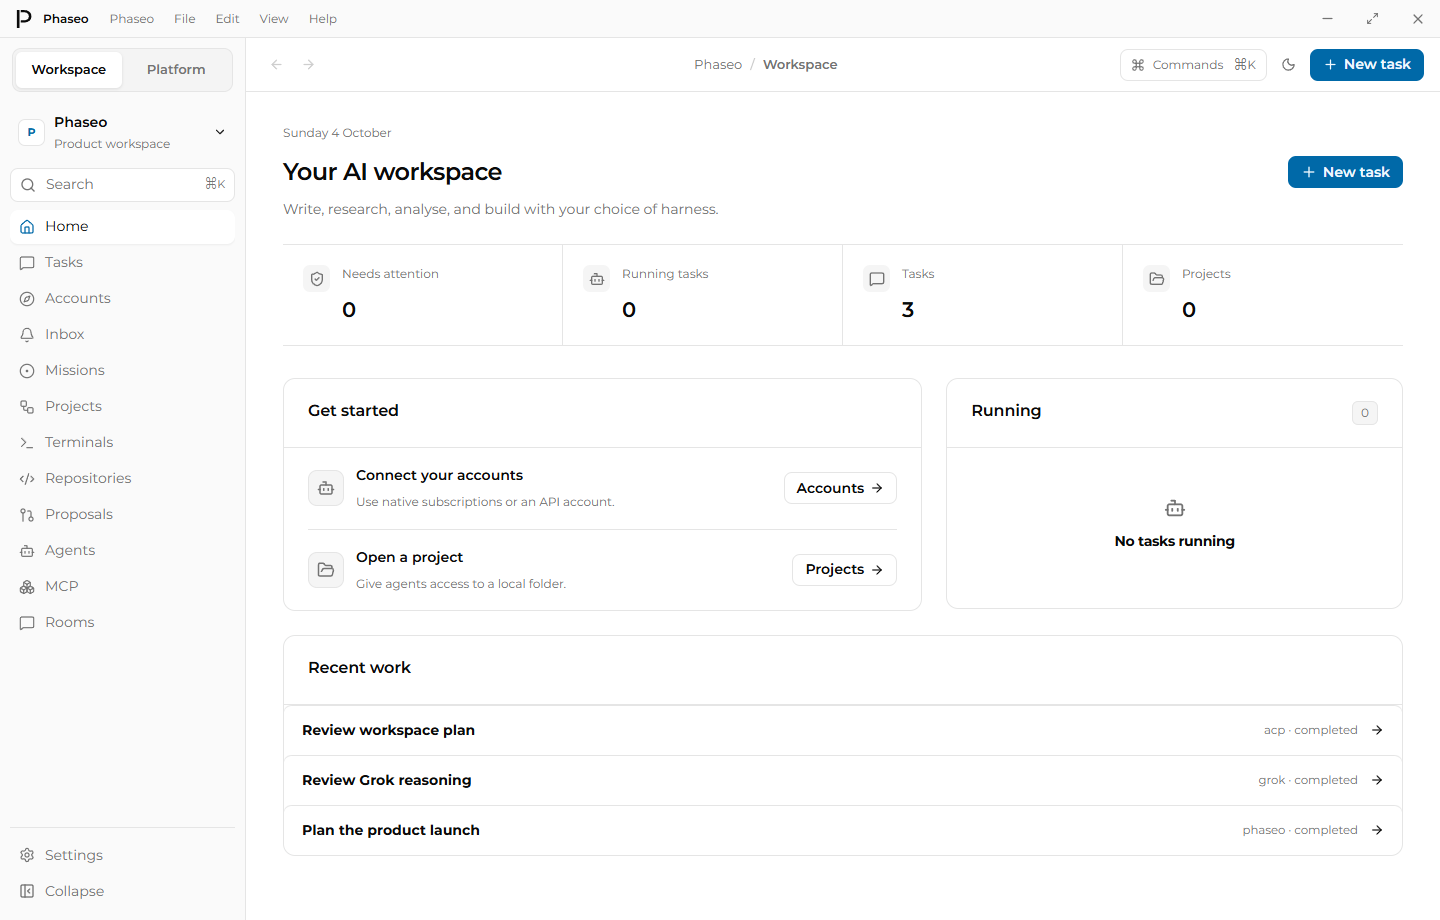
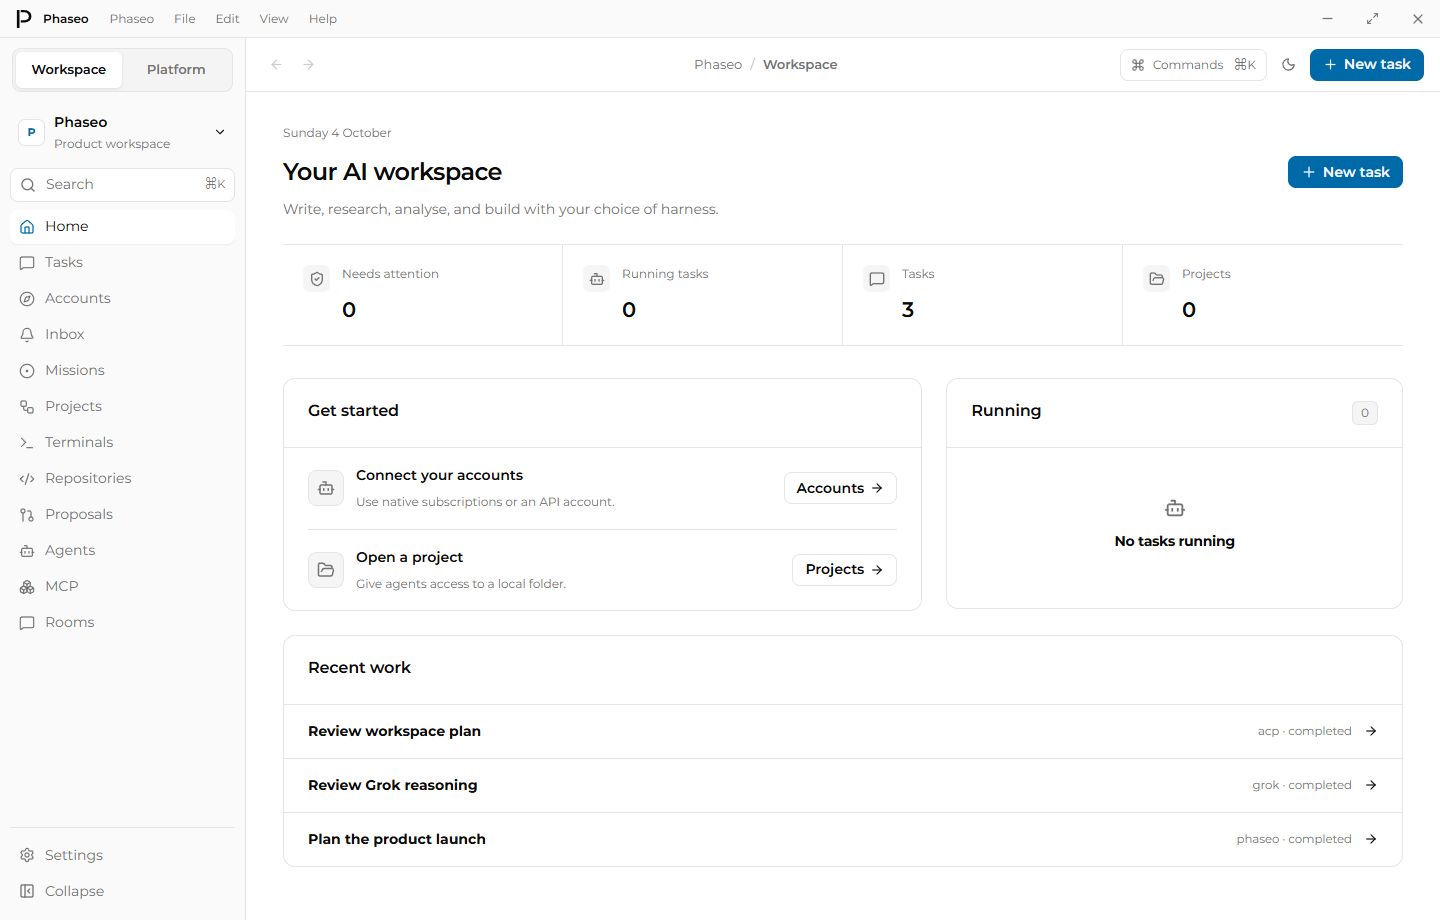
feat(desktop): improve conversation navigation and panel alignment

Changed region(s): [[0.1875, 0.7913, 0.3438, 0.9435], [0.8438, 0.7913, 0.9688, 0.9435]]

diff --git a/apps/desktop/src/renderer/components/ConversationHistory.tsx b/apps/desktop/src/renderer/components/ConversationHistory.tsx
@@ -1,5 +1,5 @@
-import { useLayoutEffect, useRef, useState, type ReactNode } from "react";
-import { Paperclip } from "lucide-react";
+import { useEffect, useLayoutEffect, useRef, useState, type ReactNode } from "react";
+import { ArrowDown, Paperclip } from "lucide-react";
 import type { Task } from "../../shared/workspace";
 import { MessageContent } from "./MessageContent";
 
@@ -7,20 +7,32 @@ const pageSize = 50;
 
 export function ConversationHistory({ task, onAttachment, children }: { task: Task; onAttachment: (id: string) => void; children: ReactNode }) {
 	const host = useRef<HTMLDivElement>(null);
+	const content = useRef<HTMLDivElement>(null);
+	const followingLatest = useRef(true);
+	const [showLatest, setShowLatest] = useState(false);
 	const anchor = useRef<{ height: number; top: number } | undefined>(undefined);
 	const [firstMessage, setFirstMessage] = useState(() => task.messages[Math.max(0, task.messages.length - pageSize)]?.id);
 	const [firstActivity, setFirstActivity] = useState(() => task.activities?.[Math.max(0, task.activities.length - pageSize)]?.id);
 	const messageStart = Math.max(0, task.messages.findIndex(value => value.id === firstMessage));
 	const activityStart = Math.max(0, task.activities?.findIndex(value => value.id === firstActivity) ?? 0);
 	useLayoutEffect(() => {
-		if (host.current && anchor.current) { host.current.scrollTop = anchor.current.top + host.current.scrollHeight - anchor.current.height; anchor.current = undefined; }
-	}, [firstMessage, firstActivity]);
-	function rememberPosition() { if (host.current) anchor.current = { height: host.current.scrollHeight, top: host.current.scrollTop }; }
-	return <div className="task-messages" ref={host} aria-live="polite">
+		if (!host.current) return;
+		if (anchor.current) { host.current.scrollTop = anchor.current.top + host.current.scrollHeight - anchor.current.height; anchor.current = undefined; updatePosition(); }
+		else if (followingLatest.current) host.current.scrollTop = host.current.scrollHeight;
+	}, [task, firstMessage, firstActivity]);
+	useEffect(() => {
+		if (!content.current) return;
+		const observer = new ResizeObserver(() => { if (host.current && followingLatest.current && !anchor.current) host.current.scrollTop = host.current.scrollHeight; });
+		observer.observe(content.current); return () => observer.disconnect();
+	}, []);
+	function updatePosition() { if (!host.current) return; const latest = host.current.scrollHeight - host.current.clientHeight - host.current.scrollTop <= 48; followingLatest.current = latest; setShowLatest(!latest); }
+	function rememberPosition() { if (host.current) { followingLatest.current = false; anchor.current = { height: host.current.scrollHeight, top: host.current.scrollTop }; } }
+	function jumpToLatest() { followingLatest.current = true; if (host.current) host.current.scrollTop = host.current.scrollHeight; setShowLatest(false); }
+	return <div className="conversation-scroll-region"><div className="task-messages" ref={host} onScroll={updatePosition} aria-live="polite"><div ref={content}>
 		{messageStart > 0 && <div className="conversation-history-controls"><button type="button" onClick={() => { rememberPosition(); setFirstMessage(task.messages[Math.max(0, messageStart - pageSize)].id); }}>Load older messages</button><small>{messageStart} earlier messages</small></div>}
 		{task.messages.length ? task.messages.slice(messageStart).map(message => <article className={`task-message task-message-${message.role}`} key={message.id}><small>{message.role === "user" ? "You" : message.role === "assistant" ? task.harness : message.role}</small>{message.role === "assistant" ? <MessageContent text={message.text} /> : <div>{message.text}</div>}{message.attachments?.map(attachment => <button type="button" className="attachment-chip" key={attachment.id} onClick={() => onAttachment(attachment.id)}><Paperclip size={12} />{attachment.name}</button>)}</article>) : <p className="task-muted">Send a message to start.</p>}
 		{activityStart > 0 && <div className="conversation-history-controls"><button type="button" onClick={() => { rememberPosition(); setFirstActivity(task.activities![Math.max(0, activityStart - pageSize)].id); }}>Load older activities</button><small>{activityStart} earlier activities</small></div>}
 		{task.activities?.slice(activityStart).map(activity => <details className="task-activity" key={activity.id}><summary>{activity.title}{activity.status ? ` · ${activity.status}` : ""}</summary><pre>{activity.text}</pre></details>)}
 		{children}
-	</div>;
+	</div></div>{showLatest && <button type="button" className="conversation-latest" onClick={jumpToLatest}><ArrowDown size={14} />Jump to latest</button>}</div>;
 }

diff --git a/apps/desktop/src/renderer/styles.css b/apps/desktop/src/renderer/styles.css
@@ -113,10 +113,11 @@
 .task-toolbar small { display: block; margin-top: 5px; color: var(--text-muted); }
 .task-toolbar .task-title { width: 100%; border: 0; padding: 0; background: transparent; color: var(--text); font: inherit; font-weight: 600; }
 .task-title:focus { outline: 1px solid var(--border); border-radius: 4px; }
-.home-task-row { display: flex; align-items: center; width: 100%; gap: 12px; padding: 14px 18px; border: 0; border-top: 1px solid var(--border); background: transparent; color: var(--text); text-align: left; }
+.page .home-task-row { display: flex; align-items: center; width: 100%; gap: 12px; padding: 16px 24px; border-radius: 0; border: 0; border-top: 1px solid var(--border); background: transparent; color: var(--text); text-align: left; }
 .home-task-row strong { flex: 1; overflow: hidden; text-overflow: ellipsis; white-space: nowrap; }
-.home-task-row small { color: var(--text-muted); }
-.home-task-row:hover { background: var(--surface); }
+.home-task-row small { color: var(--text-muted); font-weight: 400; }
+.page .home-task-row:hover { background: var(--surface-hover); }
+.panel-heading + .home-task-row { border-top: 0; }
 .task-composer textarea, .task-queue textarea { font: inherit; }
 .message-markdown { white-space: normal; line-height: 1.65; overflow-wrap: anywhere; }
 .message-markdown > :first-child { margin-top: 0; }
@@ -155,6 +156,8 @@
 .task-question input, .task-question select, .task-question textarea { color: var(--text); background: var(--surface); border: 1px solid var(--border); border-radius: 6px; padding: 8px; font: inherit; }
 .task-archive-filter { margin: 0 10px 8px; color: var(--text-muted); font-size: 12px; }
 .task-messages { flex: 1; min-height: 0; overflow: auto; padding: 24px max(24px, calc((100% - 800px) / 2)); }
+.conversation-scroll-region { position: relative; display: flex; flex-direction: column; flex: 1; min-height: 0; }
+.conversation-latest { position: absolute; right: 32px; bottom: 16px; background: var(--surface); box-shadow: 0 2px 8px #0002; }
 .conversation-history-controls { display: flex; align-items: center; flex-wrap: wrap; gap: 12px; margin-bottom: 24px; }
 .conversation-history-controls small { color: var(--text-muted); font-size: 12px; }
 .task-message { margin-bottom: 26px; }

diff --git a/apps/desktop/WORKSPACE-PLAN.md b/apps/desktop/WORKSPACE-PLAN.md
@@ -46,7 +46,7 @@ Selected conversations now read their full task through a validated task-by-ID I
 
 A typed workspace overview now projects task metadata and attention counts directly in SQLite, excluding messages, drafts, request bodies, activities, native session IDs and model catalogs. Home, Inbox and command search read this overview and its dedicated change event. Home includes failures and other unresolved attention states rather than labeling every waiting task as an approval. Tests verify payload omission, attention priority and archive behavior; Electron checks the overview read/event and Home/Inbox navigation into full detail. Accounts, Agents, MCP, Projects, Missions, Terminals and Tasks also use the overview. The old full-history change subscription and broadcast have been removed. The 155-task source and packaged workflow instruments reads and broadcasts to verify zero full-workspace reads during navigation and metadata-only change delivery. Runtime broadcasts now project metadata directly in SQLite. Notification identity uses the last user-message ID and request IDs/statuses, preserving replacement-request alerts without body reads or alerts on streamed tokens and title edits. Mission polling reuses one overview per tick and reads a single ended task only when its error is needed. Startup recovery selects only interrupted/authentication/uncertain-steering candidates rather than deserializing all completed history. Tests instrument task creation, execution setup, streaming and idle polling to reject full-store reads. Runtime commands, imports and worktree results now return metadata directly, removing redundant IPC projections. Account/model discovery, native sign-in, project/file/Git access and terminal setup use direct reads of the relevant configuration tables. Full history remains available only through the trusted diagnostic bridge and test assertions. Conversation history/native state tests now use task-by-ID reads, including a reopened database check for uncertain steering after shutdown.
 
-Conversation history initially renders the 50 most recent messages and activities. Older entries remain accessible in 50-entry increments with matching controls and counts. Prepending messages preserves the scroll position; stable first-entry IDs preserve the reading boundary as new replies arrive. Opening another task or reopening the screen resets the recent-history window. Source and Windows archive fixtures verify all 125 messages and 120 activities can be reached, reading position stays within one pixel after expansion, and a live reply does not remove the previously visible first message. Task settings and history use distinct React keys to preserve selection isolation. This limits initial rendering; it does not paginate the selected-task IPC payload or impose a permanent DOM cap.
+Conversation history initially renders the 50 most recent messages and activities. Older entries remain accessible in 50-entry increments with matching controls and counts. Prepending messages preserves the scroll position; stable first-entry IDs preserve the reading boundary as new replies arrive. Opening another task or reopening the screen resets the recent-history window. Source and Windows archive fixtures verify all 125 messages and 120 activities can be reached, reading position stays within one pixel after expansion, and a live reply does not remove the previously visible first message. Task settings and history use distinct React keys to preserve selection isolation. Conversations open at the latest entry and follow new replies or resized content while the reader stays near the bottom. Scrolling back pauses following and shows Jump to latest; returning resumes it. Source and packaged fixtures verify these states, including delayed expansion/contraction without pulling readers away from older history. This limits initial rendering; it does not paginate the selected-task IPC payload or impose a permanent DOM cap.
 
 Changes are confined to the desktop app and necessary integration packages.
 Keep credentials and filesystem/process execution in the trusted runtime.

diff --git a/apps/desktop/docs/design-audit.md b/apps/desktop/docs/design-audit.md
@@ -25,6 +25,9 @@ Reviewed against the live Phaseo Models and Chat layouts and the web application
 19. **Task history:** use database-backed 50-row pages, matching controls for Load more/Retry, loading feedback and specific empty states. A separate 155-task Electron workflow checks paging, later-page selection, searches and archive switching. Stable Markdown renderer functions preserve code highlighting and copy feedback during history refreshes.
 20. **Attention summaries:** Home and Inbox use metadata without conversation/request bodies. Home labels the count Needs attention and includes failures, interrupted work, limits and unresolved requests. Rendered history checks verify a failed task appears on both screens and opens its full conversation. Command search uses the same metadata snapshot.
 21. **Conversation history:** initially show 50 recent messages and activities, with matching controls and counts for older entries. Keep the reading position when prepending messages and the visible history boundary when a new reply arrives. The separate history workflow verifies 125 messages and 120 activities, expansion, reopening and live updates. Full selected-task payloads and permanently bounded rendering remain open work.
+22. **Live conversation navigation:** open at the latest entry and follow new content while the reader stays near the bottom. Scrolling back pauses following and reveals Jump to latest. Returning to the bottom resumes following. Observe delayed content resizing so highlighting, fonts and expanded results preserve this behavior. Source and packaged fixtures verify following, pausing, returning, delayed resizing and the older-history reading anchor.
+
+23. **Panel list alignment:** recent and running task rows use the same 24-pixel horizontal inset as their headings, square internal edges and one separator per row. Secondary metadata uses regular weight. This removes inherited button outlines from the list; refreshed Home captures cover both themes and window sizes.
 
 The sidebar now scrolls independently while Settings and Collapse remain accessible. Application menus align to the selected trigger as text sizes change. The desktop uses the web logo rather than an invented mark.
 
@@ -39,6 +42,8 @@ The sidebar now scrolls independently while Settings and Collapse remain accessi
 ![Account editing at minimum window size](screenshots/account-editor-small-window.png)
 
 ![Conversation at minimum window size](screenshots/conversation-small-window.png)
+
+![Reading older history in the Windows package](screenshots/reading-history.png)
 
 ![Conversation settings at minimum window size](screenshots/conversation-settings-small-window.png)
 
